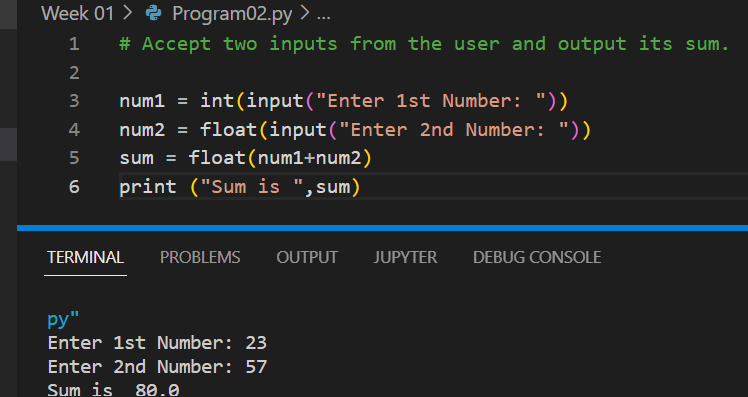
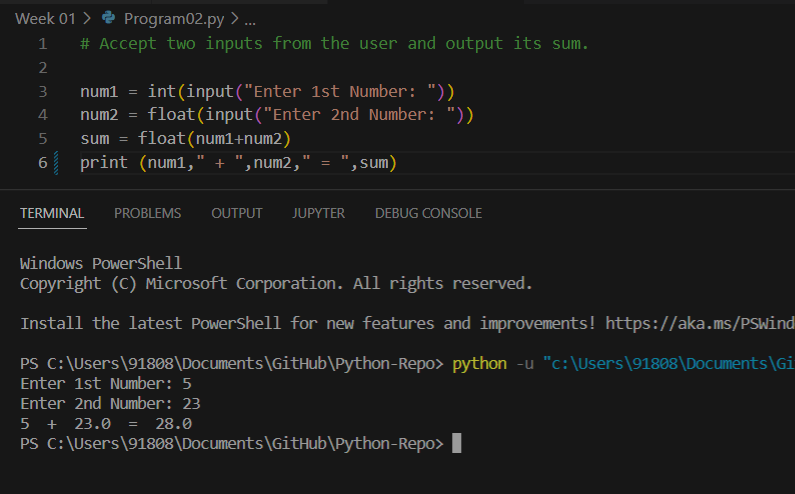
Update

diff --git a/Week 01/Program05.py b/Week 01/Program05.py
@@ -1,0 +1,16 @@
+# Write a program to show the grade obtained by a student after he/she enters their total mark percentage.
+# Program should accept an input from the user and display their grade
+
+Total_mark = float(input("Enter the Total Mark: "))
+if Total_mark >= 90:
+    print("Grade A")
+elif Total_mark >= 80:
+    print("Grade B")
+elif Total_mark >= 70:
+    print("Grade C")
+elif Total_mark >= 60:
+    print("Grade D")
+elif Total_mark >= 50:
+    print("Grade E")
+else:
+    print("Failed")

diff --git a/Week 01/Program03.py b/Week 01/Program03.py
@@ -1,0 +1,7 @@
+#Program should accept 3 inputs from the user and calculate simple interest for the given inputs. Formula: SI=(P*R*n)/100)
+
+Principal_Amount = int(input("Enter the Principal Amount: "))
+Rate_of_Interest = float(input("Enter the Rate of Interest: "))
+Time_in_Years = int(input("Enter the Time in Years: "))
+Simple_Interest = ( Principal_Amount * Rate_of_Interest * Time_in_Years ) / 100
+print("The Simple Interest is: ", Simple_Interest)

diff --git a/Week 01/Program04.py b/Week 01/Program04.py
@@ -1,0 +1,9 @@
+# Write a program to check whether a student has passed or failed in a subject after he or she enters their mark (pass mark for a subject is 50 out of 100).
+# Program should accept an input from the user and output a message as “Passed” or “Failed”
+
+
+Mark = float(input("Enter the Mark: "))
+if Mark >= 50:
+    print("Exam Passed")
+else:
+    print("Exam Failed")

diff --git a/Week 01/Program02.py b/Week 01/Program02.py
@@ -3,4 +3,4 @@
 num1 = int(input("Enter 1st Number: "))
 num2 = float(input("Enter 2nd Number: "))
 sum = float(num1+num2)
-print ("Sum is ",sum) 
+print (num1," + ",num2," = ",sum)
